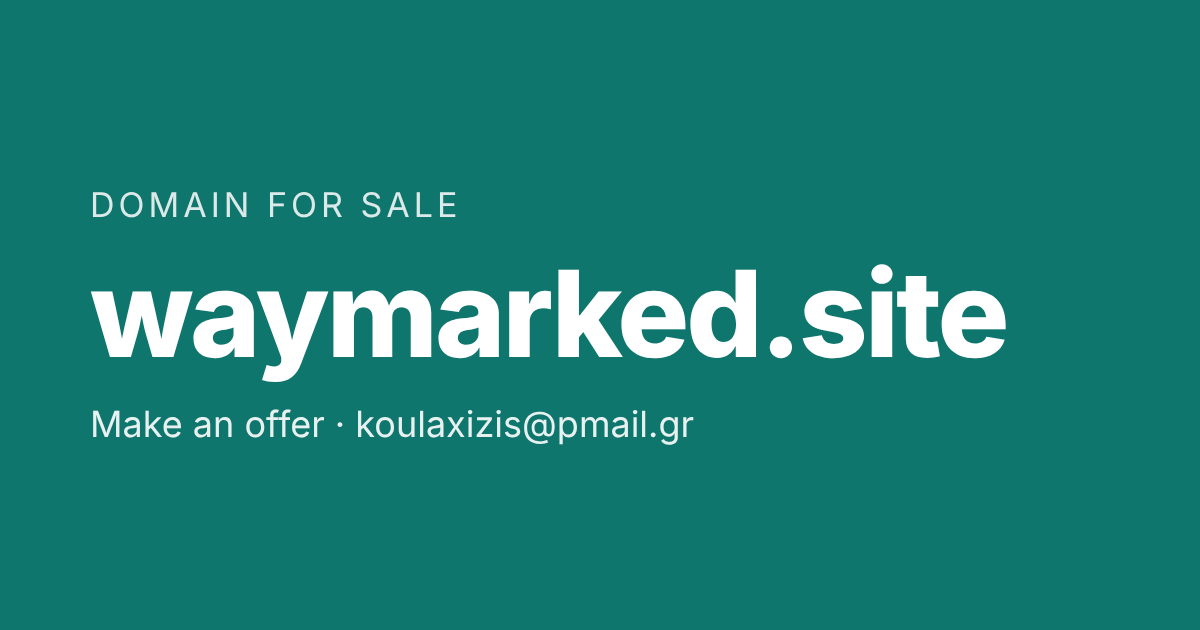
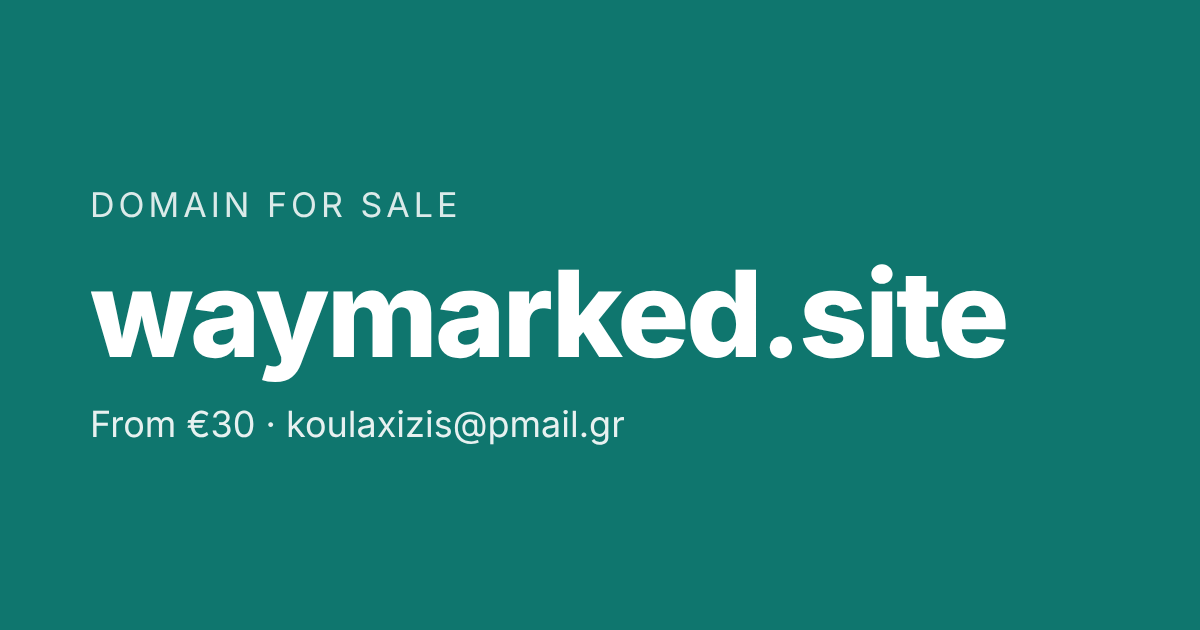
Add €30 starting price, domain-only notice, fix other domains' descriptions
Claude-Session: https://claude.ai/code/session_0169bU1poSsqWFmKqJqdXo6y

Changed region(s): [[0.0617, 0.6333, 0.5858, 0.7238]]

diff --git a/index.html b/index.html
@@ -4,7 +4,7 @@
 <meta charset="UTF-8">
 <meta name="viewport" content="width=device-width, initial-scale=1.0">
 <title>waymarked.site is for sale | Premium .site domain</title>
-<meta name="description" content="The domain name waymarked.site is for sale. Short, brandable and memorable: ideal for maps, travel, hiking, navigation or outdoor projects. Contact koulaxizis@pmail.gr to make an offer.">
+<meta name="description" content="The domain name waymarked.site is for sale. Short, brandable and memorable: ideal for maps, travel, hiking, navigation or outdoor projects. Price from €30. Contact koulaxizis@pmail.gr.">
 <meta name="keywords" content="waymarked.site, domain for sale, buy domain, .site domain, brandable domain, maps domain, travel domain, hiking domain, navigation domain, domain πωλείται">
 <meta name="robots" content="index, follow, max-image-preview:large">
 <meta name="author" content="Christos Koulaxizis">
@@ -19,7 +19,7 @@
 <meta property="og:type" content="website">
 <meta property="og:site_name" content="waymarked.site">
 <meta property="og:title" content="waymarked.site is for sale">
-<meta property="og:description" content="Short, brandable .site domain for maps, travel, hiking or navigation projects. Make an offer: koulaxizis@pmail.gr">
+<meta property="og:description" content="Short, brandable .site domain for maps, travel, hiking or navigation projects. From €30. Contact: koulaxizis@pmail.gr">
 <meta property="og:url" content="https://waymarked.site/">
 <meta property="og:image" content="https://waymarked.site/og-image.png">
 <meta property="og:image:width" content="1200">
@@ -29,7 +29,7 @@
 <meta property="og:locale:alternate" content="el_GR">
 <meta name="twitter:card" content="summary_large_image">
 <meta name="twitter:title" content="waymarked.site is for sale">
-<meta name="twitter:description" content="Short, brandable .site domain for maps, travel, hiking or navigation projects. Make an offer.">
+<meta name="twitter:description" content="Short, brandable .site domain for maps, travel, hiking or navigation projects. From €30.">
 <meta name="twitter:image" content="https://waymarked.site/og-image.png">
 
 <script type="application/ld+json">
@@ -41,7 +41,7 @@
       "@id": "https://waymarked.site/#webpage",
       "url": "https://waymarked.site/",
       "name": "waymarked.site is for sale",
-      "description": "The domain name waymarked.site is available for purchase. Contact the owner to make an offer.",
+      "description": "The domain name waymarked.site is available for purchase, price from 30 EUR. Contact the owner to buy it.",
       "inLanguage": ["en", "el"],
       "mainEntity": { "@id": "https://waymarked.site/#domain" }
     },
@@ -58,8 +58,10 @@
         "url": "https://waymarked.site/",
         "availability": "https://schema.org/InStock",
         "itemCondition": "https://schema.org/NewCondition",
+        "price": "30",
         "priceCurrency": "EUR",
-        "description": "Make an offer by email.",
+        "priceSpecification": { "@type": "PriceSpecification", "minPrice": 30, "priceCurrency": "EUR" },
+        "description": "Domain name only, price from 30 EUR. Contact by email to buy.",
         "seller": { "@id": "https://waymarked.site/#seller" }
       }
     },
@@ -79,8 +81,8 @@
       "@type": "ItemList",
       "name": "More domains for sale",
       "itemListElement": [
-        { "@type": "ListItem", "position": 1, "name": "tablogames.online", "url": "https://tablogames.online/" },
-        { "@type": "ListItem", "position": 2, "name": "soffitta.site", "url": "https://soffitta.site/" }
+        { "@type": "ListItem", "position": 1, "name": "tablogames.online", "url": "https://tablogames.online/", "description": "Domain name only, suited to games and board game brands." },
+        { "@type": "ListItem", "position": 2, "name": "soffitta.site", "url": "https://soffitta.site/", "description": "Domain name only. Soffitta is Italian for attic; suited to a creative studio or small apps brand." }
       ]
     },
     {
@@ -89,12 +91,17 @@
         {
           "@type": "Question",
           "name": "Is waymarked.site for sale?",
-          "acceptedAnswer": { "@type": "Answer", "text": "Yes. The domain waymarked.site is for sale. Email koulaxizis@pmail.gr with your offer." }
+          "acceptedAnswer": { "@type": "Answer", "text": "Yes. The domain waymarked.site is for sale, with prices starting from 30 EUR. Email koulaxizis@pmail.gr to buy it." }
         },
         {
           "@type": "Question",
           "name": "How is the domain transferred?",
           "acceptedAnswer": { "@type": "Answer", "text": "After agreeing on a price, payment can be made through a trusted escrow service and the domain is transferred to the buyer's registrar account, usually within a few days." }
+        },
+        {
+          "@type": "Question",
+          "name": "What exactly is for sale?",
+          "acceptedAnswer": { "@type": "Answer", "text": "Only the domain name waymarked.site. No website, content, code or other assets are included." }
         },
         {
           "@type": "Question",
@@ -164,6 +171,8 @@
     padding: 14px 28px; border-radius: 10px;
   }
   .cta:hover { filter: brightness(1.08); }
+  .price { margin: 0 0 16px; font-size: 1.15rem; }
+  .price strong { font-size: 1.6rem; color: var(--accent); }
   .email { margin-top: 12px; color: var(--muted); font-size: 0.95rem; }
   .email a { color: inherit; }
   section { margin-top: 48px; }
@@ -204,8 +213,9 @@
     <span lang="el">Αυτό το premium όνομα τομέα είναι διαθέσιμο προς πώληση. Σύντομο, εύκολο στη μνήμη και έτοιμο για το επόμενο project σας.</span>
   </p>
 
-  <a class="cta" lang="en" href="mailto:koulaxizis@pmail.gr?subject=Offer%20for%20waymarked.site">Make an offer</a>
-  <a class="cta" lang="el" href="mailto:koulaxizis@pmail.gr?subject=%CE%A0%CF%81%CE%BF%CF%83%CF%86%CE%BF%CF%81%CE%AC%20%CE%B3%CE%B9%CE%B1%20%CF%84%CE%BF%20waymarked.site">Κάντε προσφορά</a>
+  <p class="price"><span lang="en">Price from</span><span lang="el">Τιμή από</span> <strong>€30</strong></p>
+  <a class="cta" lang="en" href="mailto:koulaxizis@pmail.gr?subject=Buying%20waymarked.site">Buy this domain</a>
+  <a class="cta" lang="el" href="mailto:koulaxizis@pmail.gr?subject=%CE%A0%CF%81%CE%BF%CF%83%CF%86%CE%BF%CF%81%CE%AC%20%CE%B3%CE%B9%CE%B1%20%CF%84%CE%BF%20waymarked.site">Αγοράστε το domain</a>
   <p class="email">
     <span lang="en">Contact:</span><span lang="el">Επικοινωνία:</span>
     <a href="mailto:koulaxizis@pmail.gr">koulaxizis@pmail.gr</a>
@@ -219,12 +229,14 @@
         <li>Ideal for maps, hiking and trail guides, travel, navigation apps, outdoor and wayfinding brands.</li>
         <li>Short, easy to spell and easy to remember.</li>
         <li>Fast, secure transfer to your registrar.</li>
+        <li>Domain name only: no website or content is included.</li>
       </ul>
       <ul class="points" lang="el">
         <li>Το <em>waymark</em> είναι το σημάδι που καθοδηγεί τον ταξιδιώτη σε μια διαδρομή: ένα σαφές όνομα με νόημα.</li>
         <li>Ιδανικό για χάρτες, πεζοπορικούς οδηγούς και μονοπάτια, ταξίδια, εφαρμογές πλοήγησης και brands υπαίθρου.</li>
         <li>Σύντομο, εύκολο στη γραφή και στη μνήμη.</li>
         <li>Γρήγορη και ασφαλής μεταφορά στον registrar σας.</li>
+        <li>Πωλείται μόνο το όνομα τομέα, χωρίς ιστοσελίδα ή περιεχόμενο.</li>
       </ul>
     </div>
   </section>
@@ -233,14 +245,16 @@
     <h2 id="faq"><span lang="en">Frequently asked questions</span><span lang="el">Συχνές ερωτήσεις</span></h2>
     <div class="card">
       <div lang="en">
-        <details><summary>How do I buy this domain?</summary><p>Send your offer to <a href="mailto:koulaxizis@pmail.gr">koulaxizis@pmail.gr</a>. You will receive a reply, usually within 24 hours.</p></details>
+        <details><summary>How do I buy this domain?</summary><p>Email <a href="mailto:koulaxizis@pmail.gr">koulaxizis@pmail.gr</a>. You will receive a reply, usually within 24 hours.</p></details>
         <details><summary>How does the transfer work?</summary><p>Once we agree on a price, payment can go through a trusted escrow service and the domain is transferred to your registrar account, usually within a few days.</p></details>
-        <details><summary>Is there a fixed price?</summary><p>No. All reasonable offers are considered.</p></details>
+        <details><summary>How much does it cost?</summary><p>Prices start from €30. Higher offers are welcome.</p></details>
+        <details><summary>What exactly is for sale?</summary><p>Only the domain name waymarked.site. No website, content, code or other assets are included.</p></details>
       </div>
       <div lang="el">
-        <details><summary>Πώς μπορώ να αγοράσω το domain;</summary><p>Στείλτε την προσφορά σας στο <a href="mailto:koulaxizis@pmail.gr">koulaxizis@pmail.gr</a>. Θα λάβετε απάντηση συνήθως μέσα σε 24 ώρες.</p></details>
+        <details><summary>Πώς μπορώ να αγοράσω το domain;</summary><p>Στείλτε email στο <a href="mailto:koulaxizis@pmail.gr">koulaxizis@pmail.gr</a>. Θα λάβετε απάντηση συνήθως μέσα σε 24 ώρες.</p></details>
         <details><summary>Πώς γίνεται η μεταφορά;</summary><p>Μόλις συμφωνήσουμε στην τιμή, η πληρωμή μπορεί να γίνει μέσω αξιόπιστης υπηρεσίας escrow και το domain μεταφέρεται στον λογαριασμό σας, συνήθως μέσα σε λίγες ημέρες.</p></details>
-        <details><summary>Υπάρχει σταθερή τιμή;</summary><p>Όχι. Εξετάζονται όλες οι λογικές προσφορές.</p></details>
+        <details><summary>Πόσο κοστίζει;</summary><p>Η τιμή ξεκινά από €30. Υψηλότερες προσφορές είναι ευπρόσδεκτες.</p></details>
+        <details><summary>Τι ακριβώς πωλείται;</summary><p>Μόνο το όνομα τομέα waymarked.site. Δεν περιλαμβάνεται ιστοσελίδα, περιεχόμενο, κώδικας ή άλλο υλικό.</p></details>
       </div>
     </div>
   </section>
@@ -248,8 +262,8 @@
   <section aria-labelledby="more">
     <h2 id="more"><span lang="en">More domains for sale</span><span lang="el">Περισσότερα domains προς πώληση</span></h2>
     <div class="domains">
-      <a href="https://tablogames.online/">tablogames.online<small><span lang="en">Board &amp; tabletop games</span><span lang="el">Επιτραπέζια παιχνίδια</span></small></a>
-      <a href="https://soffitta.site/">soffitta.site<small><span lang="en">Attic, vintage &amp; collectibles</span><span lang="el">Σοφίτα, vintage &amp; συλλεκτικά</span></small></a>
+      <a href="https://tablogames.online/">tablogames.online<small><span lang="en">Domain only · for a games brand</span><span lang="el">Μόνο το domain · για brand παιχνιδιών</span></small></a>
+      <a href="https://soffitta.site/">soffitta.site<small><span lang="en">Domain only · Italian for “attic”</span><span lang="el">Μόνο το domain · «σοφίτα» στα ιταλικά</span></small></a>
     </div>
   </section>
 </main>
@@ -265,11 +279,11 @@
   var meta = {
     en: {
       title: 'waymarked.site is for sale | Premium .site domain',
-      desc: 'The domain name waymarked.site is for sale. Short, brandable and memorable: ideal for maps, travel, hiking, navigation or outdoor projects. Contact koulaxizis@pmail.gr to make an offer.'
+      desc: 'The domain name waymarked.site is for sale. Short, brandable and memorable: ideal for maps, travel, hiking, navigation or outdoor projects. Price from €30. Contact koulaxizis@pmail.gr.'
     },
     el: {
       title: 'Το waymarked.site πωλείται | Premium domain .site',
-      desc: 'Το όνομα τομέα waymarked.site πωλείται. Σύντομο και εύκολο στη μνήμη, ιδανικό για χάρτες, ταξίδια, πεζοπορία και πλοήγηση. Επικοινωνία: koulaxizis@pmail.gr'
+      desc: 'Το όνομα τομέα waymarked.site πωλείται. Σύντομο και εύκολο στη μνήμη, ιδανικό για χάρτες, ταξίδια, πεζοπορία και πλοήγηση. Τιμή από €30. Επικοινωνία: koulaxizis@pmail.gr'
     }
   };
   function apply(lang) {
